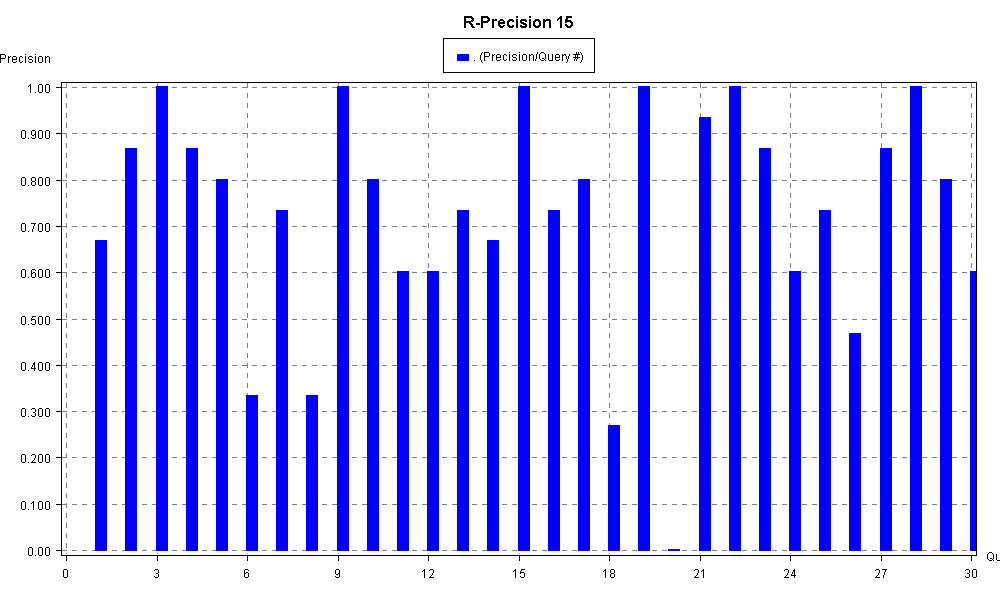
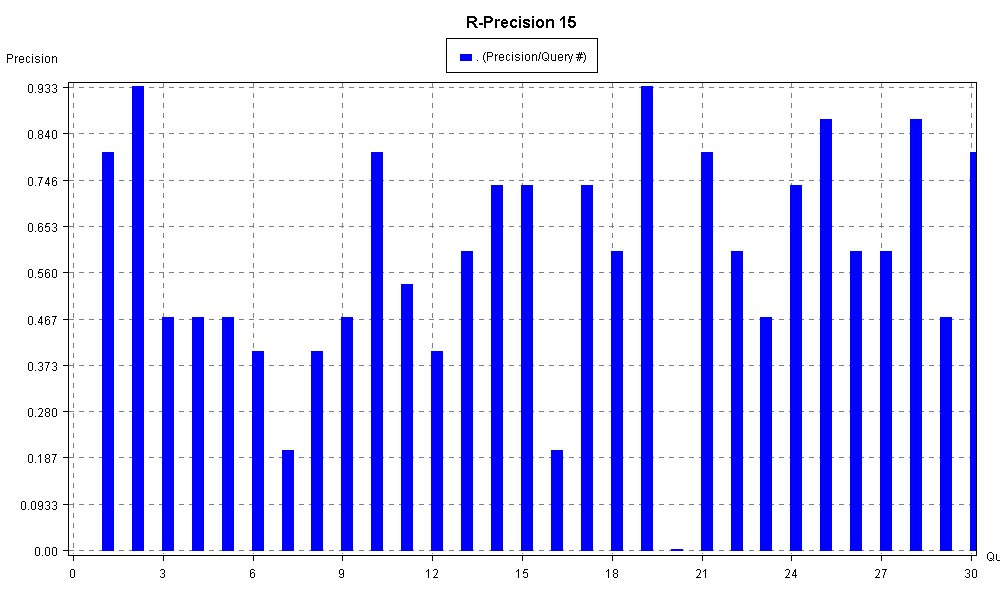
banchamrk similarity

diff --git a/src/PrecisionRecall.java b/src/PrecisionRecall.java
@@ -41,9 +41,12 @@ public class PrecisionRecall {
 	private ArrayList<Double> rprecision15;
 	private ArrayList<Double> rprecision5;
 	private String s;
+	private MyModel M;
 
-	public PrecisionRecall(String path) {
+	public PrecisionRecall(String path, MyModel M) {
 		this.s = path;
+		this.M = M;
+		System.out.println(M.getModelString());
 	}
 
 
@@ -54,6 +57,9 @@ public class PrecisionRecall {
 		FSDirectory open = FSDirectory.open(Paths.get(s));
 
 		IndexSearcher searcher = new IndexSearcher(DirectoryReader.open(open));
+		System.out.println(M.getModelSymilarity());
+		searcher.setSimilarity(M.getModelSymilarity());
+		System.out.println(searcher.getSimilarity(true));
 
 		String docNameField = "filename";
 

diff --git a/src/ProgettoGaviMain.java b/src/ProgettoGaviMain.java
@@ -402,7 +402,7 @@ public class ProgettoGaviMain implements ActionListener {
 		if( e.getSource() == mntmCalculateAndPlot) {
 			if(indexDir != null) {
 				
-				PrecisionRecall pr = new PrecisionRecall(indexDir);
+				PrecisionRecall pr = new PrecisionRecall(indexDir, M);
 				JOptionPane.showMessageDialog(frmHegregio,"At the end of the plotting, the results folder will be opened");
 
 				try {
